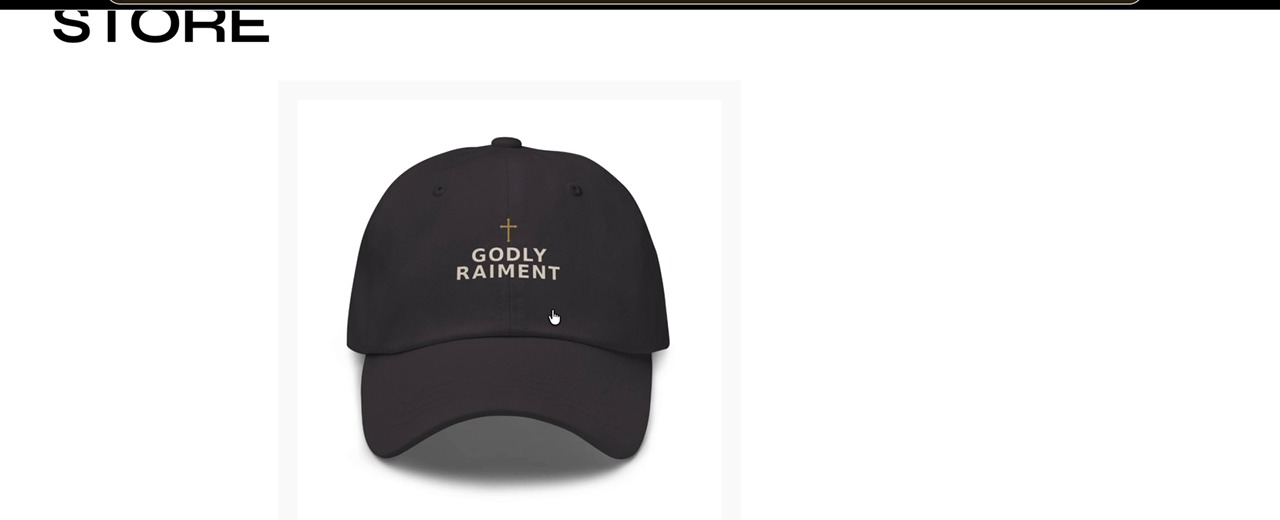
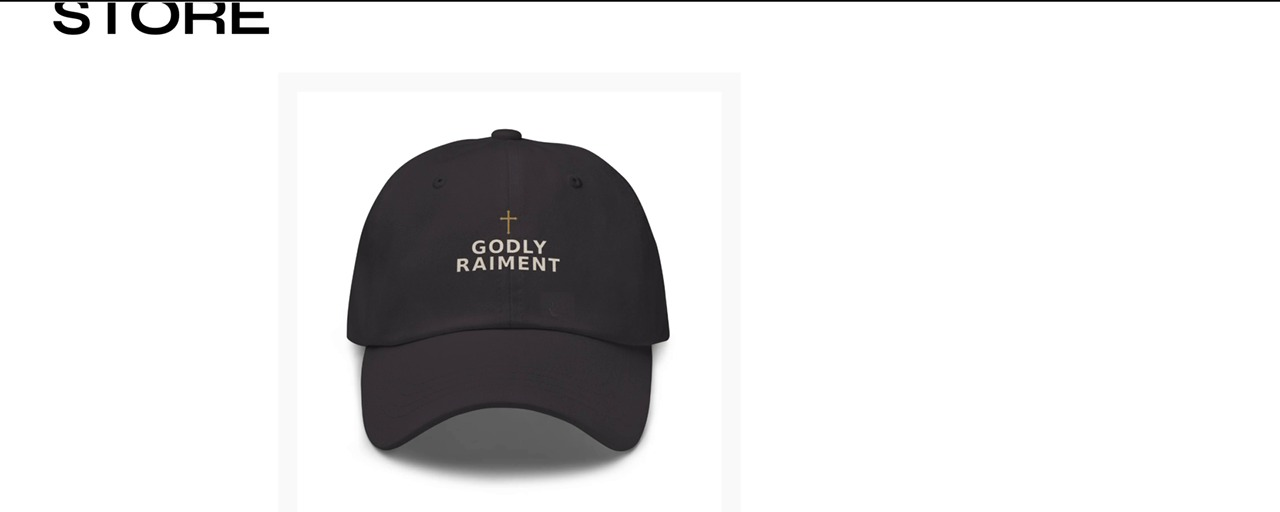
Show full screenshots uncropped, clean up product photography
- Promotional slides now use a clean contain layout (fixed header/
  footer zones, image never cropped) instead of full-bleed crops,
  so the homepage and store page are shown in full.
- Removed the carousel arrows and stray cursor icons from the
  source screenshots (feathered clone/fill patches) so they read
  as clean product photography instead of screen recordings.
- Replaced the cropped colorway stack with a single full, clean
  product shot of the hat (hat.jpg).

Intro and Outro are unchanged.

Claude-Session: https://claude.ai/code/session_01VnEq2ChKPq5zBvguLbqSdZ

diff --git a/src/components/SlidePanel.tsx b/src/components/SlidePanel.tsx
@@ -11,15 +11,12 @@ export const SlidePanel: React.FC<{ slide: Slide; durationInFrames: number; inde
   const frame = useCurrentFrame();
   const { fps } = useVideoConfig();
 
-  const kenBurns = interpolate(frame, [0, durationInFrames], [1, 1.14], {
-    extrapolateLeft: "clamp",
-    extrapolateRight: "clamp",
-  });
-  const drift = interpolate(frame, [0, durationInFrames], [0, index % 2 === 0 ? -18 : 18], {
+  const kenBurns = interpolate(frame, [0, durationInFrames], [1, 1.05], {
     extrapolateLeft: "clamp",
     extrapolateRight: "clamp",
   });
 
+  const imageIn = spring({ frame, fps, config: { damping: 200 } });
   const textIn = spring({ frame: frame - 6, fps, config: { damping: 200 } });
   const fadeOut = interpolate(frame, [durationInFrames - 12, durationInFrames], [1, 0], {
     extrapolateLeft: "clamp",
@@ -29,21 +26,29 @@ export const SlidePanel: React.FC<{ slide: Slide; durationInFrames: number; inde
   const src = staticFile(`images/${slide.src}`);
 
   return (
-    <AbsoluteFill className="bg-black" style={{ opacity: fadeOut }}>
-      <AbsoluteFill style={{ transform: `scale(${kenBurns}) translateY(${drift}px)` }}>
-        <Img
-          src={src}
-          className="h-full w-full object-cover"
-          style={{ objectPosition: slide.focus ?? "center" }}
-        />
-      </AbsoluteFill>
+    <AbsoluteFill className="flex flex-col bg-black" style={{ opacity: fadeOut }}>
+      <div className="flex items-center justify-center gap-3 pt-16">
+        {Array.from({ length: total }).map((_, i) => (
+          <div key={i} className={`h-2 rounded-full ${i === index ? "w-10 bg-amber-400" : "w-2 bg-white/30"}`} />
+        ))}
+      </div>
 
-      <AbsoluteFill className="bg-gradient-to-t from-black/85 via-black/5 to-black/40" />
-
-      <AbsoluteFill className="items-start justify-end px-14 pb-28">
+      <div className="flex min-h-0 flex-1 items-center justify-center px-12 py-8">
         <div
           style={{
-            transform: `translateY(${interpolate(textIn, [0, 1], [60, 0])}px)`,
+            transform: `scale(${interpolate(imageIn, [0, 1], [0.92, 1]) * kenBurns})`,
+            opacity: imageIn,
+          }}
+          className="flex h-full w-full items-center justify-center overflow-hidden rounded-2xl shadow-[0_30px_100px_rgba(0,0,0,0.55)]"
+        >
+          <Img src={src} className="max-h-full max-w-full object-contain" />
+        </div>
+      </div>
+
+      <div className="px-14 pb-20 pt-4">
+        <div
+          style={{
+            transform: `translateY(${interpolate(textIn, [0, 1], [40, 0])}px)`,
             opacity: textIn,
             fontFamily: bodyFont,
           }}
@@ -53,23 +58,15 @@ export const SlidePanel: React.FC<{ slide: Slide; durationInFrames: number; inde
         </div>
         <div
           style={{
-            transform: `translateY(${interpolate(textIn, [0, 1], [80, 0])}px)`,
+            transform: `translateY(${interpolate(textIn, [0, 1], [50, 0])}px)`,
             opacity: textIn,
             fontFamily: headlineFont,
           }}
-          className="text-6xl leading-[1.05] text-white drop-shadow-[0_4px_24px_rgba(0,0,0,0.8)]"
+          className="text-6xl leading-[1.05] text-white"
         >
           {slide.caption}
         </div>
-      </AbsoluteFill>
-
-      <AbsoluteFill className="items-center justify-start pt-16">
-        <div className="flex gap-3">
-          {Array.from({ length: total }).map((_, i) => (
-            <div key={i} className={`h-2 rounded-full ${i === index ? "w-10 bg-amber-400" : "w-2 bg-white/40"}`} />
-          ))}
-        </div>
-      </AbsoluteFill>
+      </div>
     </AbsoluteFill>
   );
 };

diff --git a/src/slides.ts b/src/slides.ts
@@ -1,8 +1,6 @@
 export type Slide = {
   /** Filename inside public/images/. */
   src: string;
-  /** CSS object-position — biases the full-bleed crop toward the important content. */
-  focus?: string;
   label: string;
   caption: string;
   kicker: string;
@@ -15,21 +13,19 @@ export const TAGLINE = "Wear Your Faith";
 export const slides: Slide[] = [
   {
     src: "homepage.jpg",
-    focus: "center 55%",
     label: "Homepage hero",
     kicker: "Introducing",
     caption: "Faith-Driven Streetwear",
   },
   {
     src: "collection.jpg",
-    focus: "40% center",
     label: "Store — Godly Raiment Hat",
     kicker: "The Collection",
     caption: "The Godly Raiment Hat",
   },
   {
-    src: "colorways.jpg",
-    label: "Colorways — Black & Camo",
+    src: "hat.jpg",
+    label: "Godly Raiment Hat — product shot",
     kicker: "Crafted With Purpose",
     caption: "Timeless Fit. Built To Last.",
   },
